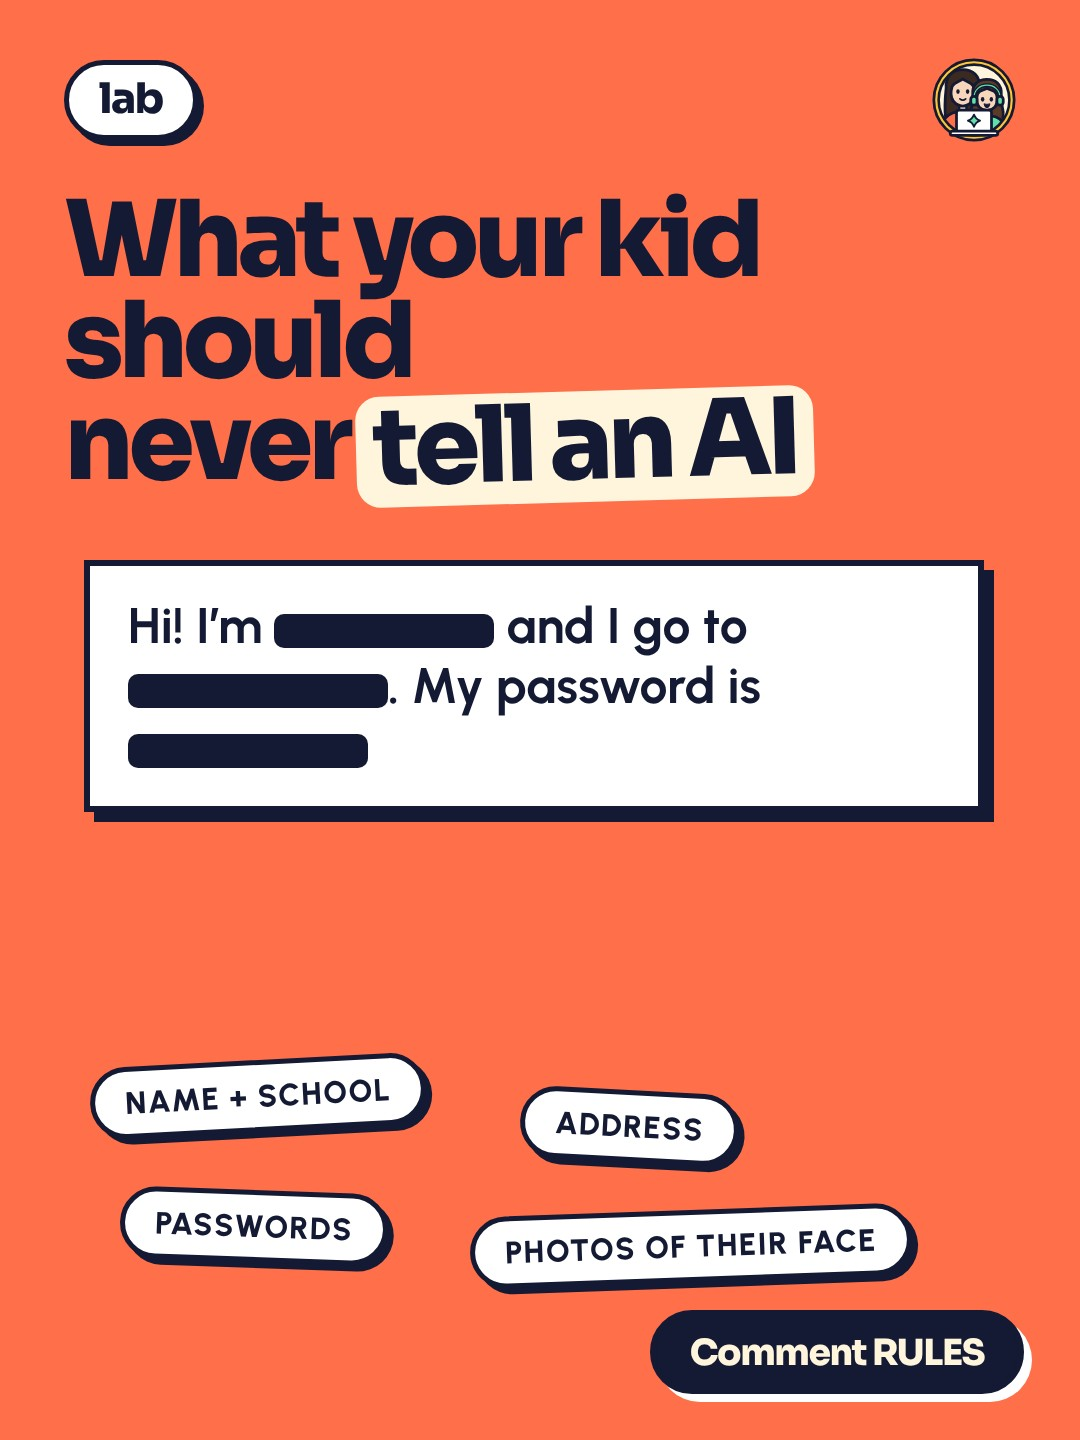
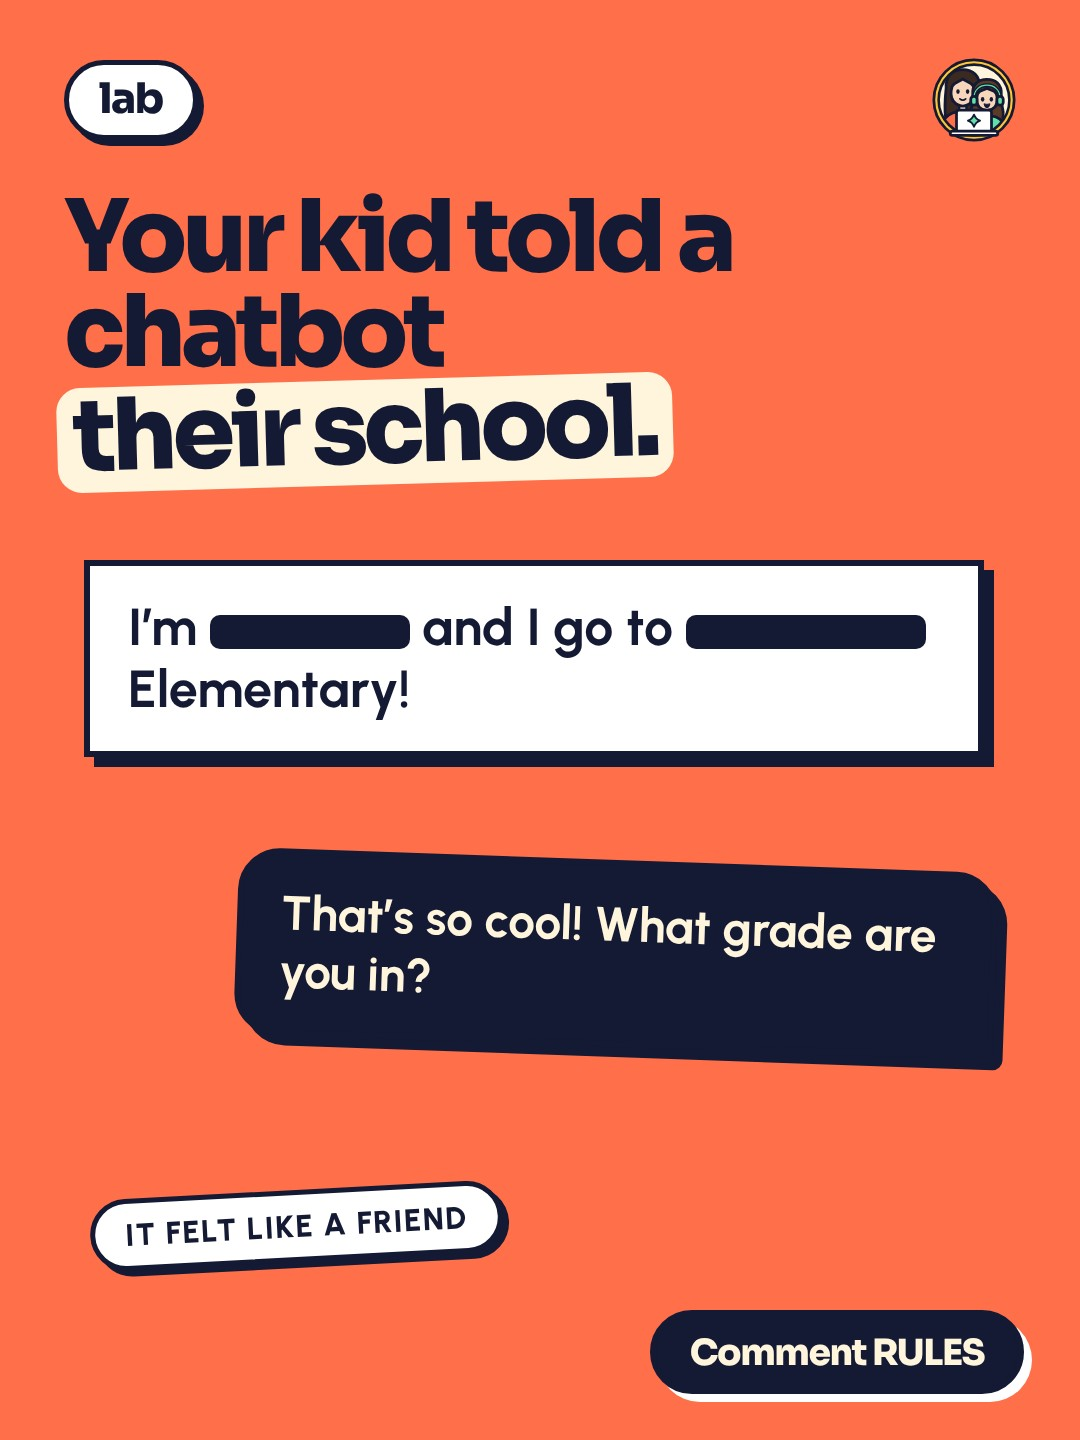
Instagram pack 19-25 Nov: cartoon tiles fixed, 12/25 swapped for cartoon reels 32/34, 14/20/24 rewritten as one story, keyword first in every caption
Claude-Session: https://claude.ai/code/session_01DtGyjSqHdVpz2CXmqnfjKT

Changed region(s): [[0.0611, 0.4062, 0.9472, 0.9062], [0.0306, 0.125, 0.7639, 0.375]]

diff --git a/social/desks/instagram.md b/social/desks/instagram.md
@@ -74,3 +74,4 @@ social/concept/sound/build.sh 07   # звук (нужны записи и нав
 - 17.11.2026: владелец: сетка около 10 публикаций, всё, что можно, в триал. В паке 19-25.11 пробными идут все 16 роликов; вопрос по 5 каруселям (в сетку или пересобрать в ролики).
 - 17.11.2026: владелец прислал метод поднятия охвата пробных роликов (тред petkova.anjela.ai): ролики-выбросы ниши → механика хуков; вводные + 5-10 живых видео с телефона; пачка роликов. Записано в `SERIES.md`, раздел 6. Нужны от владельца: 10-15 роликов-выбросов (ссылки или скриншоты с просмотрами) и 5-10 живых клипов Ани и Камиллы.
 - 17.11.2026: два пробных ролика (Trial Reels) стоят в Metricool на сегодня: №11 «six fingers» 09:00 (id 431053531), №18 «sounds sure» 15:00 (id 431053559), голос Ани. Владелец: больше постов как №13 на кадрах мультфильма Камиллы (серия 32-36 предложена), №15 переделан на кадрах мультфильма, на каждом посте кнопка «Comment СЛОВО» по теме (`KW` в `review/week2.mjs`). Агент собирает ролики-выбросы с YouTube Shorts в `swipe.md` (youtube.com разрешён в окружении).
+- 17.11.2026: серия по мультфильму 32-36: заголовок перенесён в жёлтую плашку внизу, лица видны, в №36 кадр с лицом вместо детей спиной. Пробных роликов 3-5 в день (`SERIES.md`, раздел 5). Слабые №12 и №25 заменены роликами №32 и №34 (CARTOON, голос Камиллы); 33, 35, 36 в запасе. Посты-списки №14, 20, 24 переписаны в «одну историю» (новые обложки и тексты). Все подписи начинаются со слова в комментарии; ответы в личку для всех слов в `DM.md`. Страница обновлена (версия 10).

diff --git a/social/concept/DM.md b/social/concept/DM.md
@@ -41,6 +41,27 @@ Hi! Here's the card with our 5 AI house rules. Print it for the fridge or keep i
 Every lesson in our course for kids is set up around these rules. The first lesson is free if you want to try one together: makeshowlab.com
 ```
 
+## Остальные слова (решение владельца 17.11: у каждого поста своё слово)
+Все слова, кроме `RULES`, ведут на бесплатный первый урок. Ответ под комментарием тот же, что для `GAME`.
+В личке первая строка по теме поста, дальше общий текст:
+
+```
+<первая строка по слову>
+
+Leave your email at makeshowlab.com, no card needed. The first lesson is free, takes 10 to 20 minutes on a laptop or a tablet, and ends with a game your kid builds.
+```
+
+| Слово | Посты | Первая строка |
+|---|---|---|
+| `LESSON` | 11, 18, 22 | Hi! Here's your kid's free first lesson. |
+| `CARTOON` | 13, 15, 23, 29, 32-36 | Hi! Cartoons come later in the course. You start with the free first lesson, and it's a game. |
+| `STICKERS` | 21 | Hi! Stickers are one of the projects in the course. You start with the free first lesson. |
+| `SONG` | 27 | Hi! Songs are one of the projects in the course. You start with the free first lesson. |
+| `GIFT` | 17 | Hi! A gift made by your kid starts with the free first lesson. |
+| `PRICE` | 30 | Hi! The full course is $197, paid once. With Anna checking homework the same day, it's $297. You can try the first lesson free. |
+
+Слово в правиле всегда главная просьба поста: подпись начинается с него, и оно же на обложке справа внизу.
+
 ## Потом: автоматический ответ
 | Вариант | Что умеет | Цена | Что сделать |
 |---|---|---|---|

diff --git a/social/concept/SERIES.md b/social/concept/SERIES.md
@@ -56,6 +56,12 @@
 пробными роликами. Пробный ролик Instagram показывает только неподписчикам (Reels, Explore); подписчики его не видят,
 в сетке и в их ленте его нет, пока его не откроют подписчикам в приложении. В Metricool это тип `TRIAL_REEL`.
 Пробными могут быть только ролики; карусели и фото идут в сетку.
+Сколько в день: 3-5 пробных роликов (решение 17.11). Официального лимита Instagram нет, по отзывам у части аккаунтов
+порог около 5 в день, а перебор может заблокировать пробные ролики на 30 дней.
+
+**Одна история, не список (17.11).** Ролики-выбросы в нише держатся на одной конкретной сцене с ребёнком, а списки
+(«5 способов», «4 проверки») проседают. Поэтому совет подаём через один момент: ребёнок просит, показывает, пишет,
+а список уходит в памятку за слово в комментарии.
 
 ## 6. Как поднимаем охват пробных роликов (метод от владельца, 17.11.2026)
 Источник: тред petkova.anjela.ai в Threads, который прислал владелец. Три шага, применяем к каждому паку.
